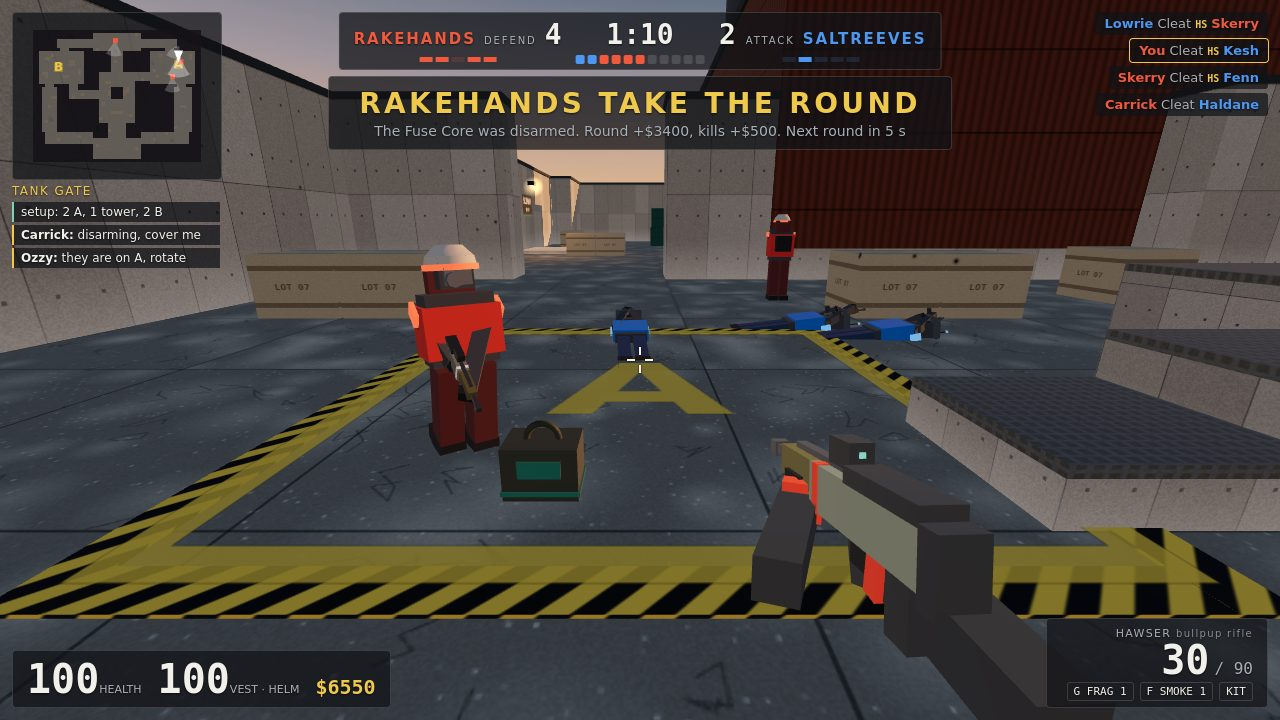
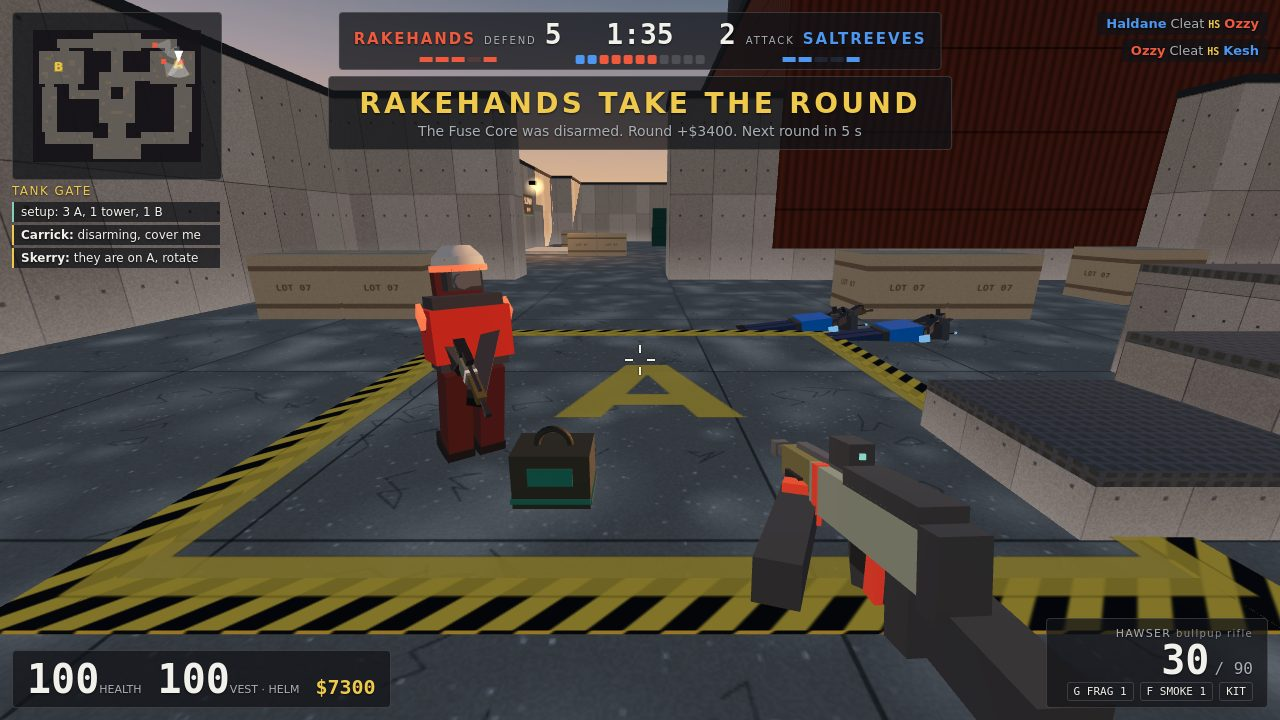
Shot 4 follows shot 2: the disarm win in round 7 reads 5-2 after the 4-2 buy
Scene 4 is staged in round 7 (the Rakehands still defend), long enough for the kit disarm to
finish inside the scene. Fresh screenshots.

diff --git a/tools/stage.js b/tools/stage.js
@@ -41,7 +41,7 @@ const SCENES = {
     script(i, s) { s.aim(null, -0.2, 9, 9); } },
   // A retake of A won by a teammate's disarm with the kit, 2.7 m ahead, looking south down the lane past the
   // pad over two downed Saltreeves: the window turns teal, the banner names the disarm; the match goes on.
-  4: { side: 1, round: 6, clock: 70, core: 'armed', site: 'A', ticks: 100, end: 0.05, dead: ['f0', 'f1'],
+  4: { side: 1, round: 7, clock: 95, core: 'armed', site: 'A', ticks: 230, end: 0.05, dead: ['f0', 'f1'],
     cast: [['p', 48, 8, 48, 20, 'hawser'], ['m0', 49.6, 10.7, 48.9, 10.3, 'hawser'], ['m1', 46, 15, 47, 20, 'skiff'], ['f0', 47, 13, 51, 13, 'hawser'], ['f1', 46.3, 12.6, 51, 12.6, 'skiff']],
     radio: [['m1', 'they are on A, rotate']], // Carrick says 'disarming, cover me' himself
     script(i, s) { s.aim(null, -0.28, 48, 20); } },
